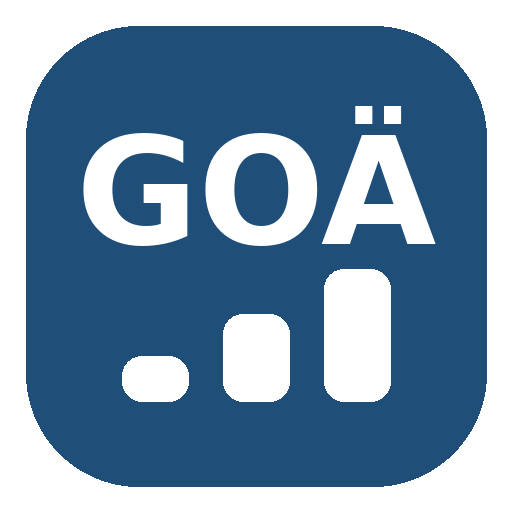
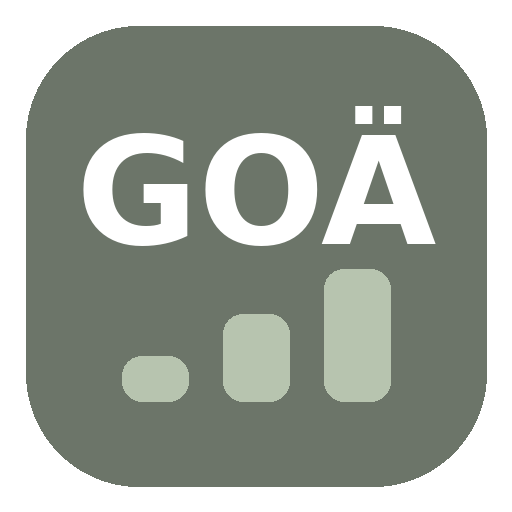
App in den Farben der Praxis
Symbol und Oberfläche übernehmen das Farbschema aus dem Praxislogo. Die drei
Werte sind die flächenmäßig größten deckenden Farben der Datei und liegen als
werkzeuge/praxislogo.png bei:

  #6C7569  Grün der Logofläche   Kopfzeile, Summen, Hauptknöpfe, Ziffern
  #B7C4AF  Hellgrün des Strangs  Balken im Symbol, Markenton im Dunkelmodus
  #585857  Grau der Wortmarke    Nebentexte

Symbol
- Aufbau unverändert, nur neu eingefärbt: Schriftzug weiß, Balken hellgrün auf
  der Grünfläche
- der Symbolbau liegt jetzt als werkzeuge/symbole_erzeugen.py bei, statt als
  einmaliges Skript; die Herkunft der Farbwerte ist dort festgehalten
- geprüft bis 60 Punkte Kantenlänge, der Schriftzug bleibt lesbar

Oberfläche
- helles und dunkles Erscheinungsbild neu abgestimmt, ebenso Kopfzeilenfarbe
  des Browsers und die Farben im Manifest für den Startbildschirm
- alle Farbpaare erreichen mindestens 4,5:1; kleine Schrift auf Eingabeflächen
  nutzt den kräftigeren Ton #4D5649, weil das Markengrün dort nur 4,0:1 erreicht

Der Zwischenspeicher des Dienst-Workers steht jetzt auf goae-v2. Ohne diese
Erhöhung bekämen bereits installierte Geräte weiterhin das alte Symbol und die
alten Farben aus ihrem Zwischenspeicher.

Geprüft im mobilen Browser auf iPhone und Android, hell und dunkel.

Claude-Session: https://claude.ai/code/session_01CNGbDgujvfgsXmdd43Jy36

diff --git a/app/app.css b/app/app.css
@@ -1,17 +1,20 @@
 /* GOAE-Kalkulator - Gestaltung fuer Telefone (iOS und Android). */
 
 :root {
-  --grund: #f4f6f9;
+  /* Farben der Praxis, entnommen aus werkzeuge/praxislogo.png:
+     #6C7569 Grün der Logofläche, #B7C4AF Hellgrün des Strangs,
+     #585857 Grau der Wortmarke. Die übrigen Werte sind daraus abgeleitet. */
+  --grund: #f1f3ef;
   --flaeche: #ffffff;
-  --flaeche-2: #eef2f7;
-  --linie: #d5dde6;
-  --text: #16202b;
-  --text-leise: #5b6a7a;
-  --marke: #1f4e79;
-  --marke-hell: #2f6da8;
-  --warnung: #b45309;
-  --fehler: #b91c1c;
-  --gut: #15803d;
+  --flaeche-2: #e8ece4;
+  --linie: #ccd3c6;
+  --text: #23261f;
+  --text-leise: #585857;
+  --marke: #6c7569;
+  --marke-stark: #4d5649;
+  --warnung: #9a5800;
+  --fehler: #a3201a;
+  --gut: #4a6b45;
   --radius: 14px;
   --tippziel: 44px;
   --unten: calc(env(safe-area-inset-bottom, 0px));
@@ -19,17 +22,17 @@
 
 @media (prefers-color-scheme: dark) {
   :root {
-    --grund: #0f1720;
-    --flaeche: #172230;
-    --flaeche-2: #1e2c3c;
-    --linie: #2c3d51;
-    --text: #e8eef5;
-    --text-leise: #9db0c4;
-    --marke: #7db3e8;
-    --marke-hell: #9cc8f5;
-    --warnung: #f0a868;
-    --fehler: #f4837c;
-    --gut: #7ddba0;
+    --grund: #171a15;
+    --flaeche: #20241e;
+    --flaeche-2: #2a2f27;
+    --linie: #3c4337;
+    --text: #e9ece6;
+    --text-leise: #a9b3a4;
+    --marke: #b7c4af;
+    --marke-stark: #cfd9c8;
+    --warnung: #e0a86a;
+    --fehler: #eb8a83;
+    --gut: #8fca86;
   }
 }
 
@@ -62,7 +65,7 @@ body {
   background: var(--marke);
   color: #fff;
 }
-@media (prefers-color-scheme: dark) { .kopf { background: #0f1b26; } }
+@media (prefers-color-scheme: dark) { .kopf { background: #2b3128; } }
 
 .kopf h1 { margin: 0; font-size: 1.05rem; font-weight: 650; letter-spacing: .2px; }
 .kopf-titel { flex: 1; min-width: 0; }
@@ -129,7 +132,7 @@ main { padding: 12px 12px 0; max-width: 760px; margin: 0 auto; }
   padding-right: 34px;
 }
 .feld input:focus, .feld select:focus, .suchleiste input:focus {
-  outline: 2px solid var(--marke-hell);
+  outline: 2px solid var(--marke-stark);
   outline-offset: 1px;
 }
 .feld-paar { display: grid; grid-template-columns: 1fr 1fr; gap: 10px; }
@@ -144,14 +147,16 @@ main { padding: 12px 12px 0; max-width: 760px; margin: 0 auto; }
   padding: 10px 16px;
   font: inherit;
   font-weight: 600;
-  color: var(--marke);
+  /* Der kräftigere Ton, weil kleine Schrift auf der Eingabefläche sonst
+     unter dem Kontrastmindestwert bliebe. */
+  color: var(--marke-stark);
   background: var(--flaeche-2);
   border: 1px solid var(--linie);
   border-radius: 10px;
   cursor: pointer;
 }
 .knopf.haupt { background: var(--marke); border-color: var(--marke); color: #fff; }
-@media (prefers-color-scheme: dark) { .knopf.haupt { color: #0f1720; } }
+@media (prefers-color-scheme: dark) { .knopf.haupt { color: #171a15; } }
 .knopf.gross { width: 100%; margin-bottom: 12px; }
 .knopf:active { transform: scale(.985); }
 .knopfreihe { display: flex; flex-wrap: wrap; gap: 8px; }
@@ -225,7 +230,7 @@ main { padding: 12px 12px 0; max-width: 760px; margin: 0 auto; }
 .stufe button {
   width: 38px; height: 40px;
   border: none; background: transparent;
-  color: var(--marke); font-size: 1.25rem; line-height: 1;
+  color: var(--marke-stark); font-size: 1.25rem; line-height: 1;
 }
 .stufe input {
   width: 62px; height: 40px;
@@ -241,7 +246,7 @@ main { padding: 12px 12px 0; max-width: 760px; margin: 0 auto; }
   font-size: .95rem;
 }
 .fix-knopf[aria-pressed="true"] { background: var(--marke); border-color: var(--marke); color: #fff; }
-@media (prefers-color-scheme: dark) { .fix-knopf[aria-pressed="true"] { color: #0f1720; } }
+@media (prefers-color-scheme: dark) { .fix-knopf[aria-pressed="true"] { color: #171a15; } }
 .position-betrag {
   margin-left: auto;
   font-size: 1.12rem;
@@ -402,7 +407,7 @@ main { padding: 12px 12px 0; max-width: 760px; margin: 0 auto; }
   max-width: 92vw;
   padding: 10px 16px;
   border-radius: 22px;
-  background: #16202bee;
+  background: #23261fee;
   color: #fff;
   font-size: .84rem;
   text-align: center;

diff --git a/app/index.html b/app/index.html
@@ -3,8 +3,8 @@
 <head>
 <meta charset="utf-8">
 <meta name="viewport" content="width=device-width, initial-scale=1, viewport-fit=cover">
-<meta name="theme-color" content="#1f4e79" media="(prefers-color-scheme: light)">
-<meta name="theme-color" content="#0f1b26" media="(prefers-color-scheme: dark)">
+<meta name="theme-color" content="#6c7569" media="(prefers-color-scheme: light)">
+<meta name="theme-color" content="#2b3128" media="(prefers-color-scheme: dark)">
 <meta name="description" content="Kalkulation privatärztlicher Leistungspakete nach der GOÄ">
 <meta name="apple-mobile-web-app-capable" content="yes">
 <meta name="apple-mobile-web-app-status-bar-style" content="black-translucent">

diff --git a/app/sw.js b/app/sw.js
@@ -5,7 +5,7 @@
  * Beim Aendern der Version wird der alte Bestand verworfen.
  */
 
-const VERSION = 'goae-v1';
+const VERSION = 'goae-v2';
 const BESTAND = [
   './',
   './index.html',

diff --git a/werkzeuge/symbole_erzeugen.py b/werkzeuge/symbole_erzeugen.py
@@ -1,0 +1,91 @@
+#!/usr/bin/env python3
+"""Erzeugt die App-Symbole in den Farben der Praxis.
+
+Die Farbwerte stammen aus dem Praxislogo (werkzeuge/praxislogo.png) und sind
+dort die drei flaechenmaessig groessten deckenden Farben:
+
+    #6C7569   Gruen der Logoflaeche      -> Untergrund des Symbols
+    #FFFFFF   Weiss der Wortmarke        -> Schriftzug "GOAE"
+    #B7C4AF   Hellgruen des Strangs      -> die drei Balken
+
+Aufbau des Symbols (unveraendert gegenueber der ersten Fassung, nur neu
+eingefaerbt): Schriftzug in der oberen Haelfte, darunter drei aufsteigende
+Balken als Sinnbild fuer den einfachen, den 2,3- und den 3,5-fachen Satz.
+
+    python3 werkzeuge/symbole_erzeugen.py
+"""
+
+from __future__ import annotations
+
+import sys
+from pathlib import Path
+
+from PIL import Image, ImageDraw, ImageFont
+
+# Aus dem Praxislogo entnommen - siehe Kopf dieser Datei.
+GRUEN = (108, 117, 105)
+WEISS = (255, 255, 255)
+HELLGRUEN = (183, 196, 175)
+
+SCHRIFTEN = (
+    "/usr/share/fonts/truetype/dejavu/DejaVuSans-Bold.ttf",
+    "/usr/share/fonts/truetype/liberation/LiberationSans-Bold.ttf",
+)
+
+
+def schriftart(groesse: int):
+    for pfad in SCHRIFTEN:
+        if Path(pfad).exists():
+            return ImageFont.truetype(pfad, groesse)
+    return ImageFont.load_default()
+
+
+def zeichne(groesse: int, maskierbar: bool = False) -> Image.Image:
+    bild = Image.new("RGBA", (groesse, groesse), (0, 0, 0, 0))
+    stift = ImageDraw.Draw(bild)
+    if maskierbar:
+        # Maskierbare Symbole werden von Android beschnitten: Flaeche voll
+        # fuellen, Inhalt in der sicheren Zone halten.
+        stift.rectangle([0, 0, groesse, groesse], fill=GRUEN)
+        inhalt = groesse * 0.70
+    else:
+        rand = groesse * 0.05
+        stift.rounded_rectangle([rand, rand, groesse - rand, groesse - rand],
+                                radius=groesse * 0.22, fill=GRUEN)
+        inhalt = groesse * 0.86
+    mitte = groesse / 2
+
+    text = "GOÄ"
+    grad = schriftart(int(inhalt * 0.34))
+    kasten = stift.textbbox((0, 0), text, font=grad)
+    stift.text((mitte - (kasten[2] - kasten[0]) / 2 - kasten[0],
+                mitte - inhalt * 0.34 - kasten[1]), text, font=grad, fill=WEISS)
+
+    balken_unten = mitte + inhalt * 0.33
+    hoechste = inhalt * 0.30
+    breite = inhalt * 0.15
+    luecke = inhalt * 0.08
+    start = mitte - (3 * breite + 2 * luecke) / 2
+    for i, anteil in enumerate((0.34, 0.66, 1.0)):
+        hoehe = hoechste * anteil
+        x = start + i * (breite + luecke)
+        stift.rounded_rectangle([x, balken_unten - hoehe, x + breite, balken_unten],
+                                radius=breite * 0.3, fill=HELLGRUEN)
+    return bild
+
+
+def main(argv: list[str]) -> int:
+    ziel = Path(argv[1]) if len(argv) > 1 else \
+        Path(__file__).resolve().parent.parent / "app" / "symbole"
+    ziel.mkdir(parents=True, exist_ok=True)
+    for groesse in (180, 192, 512):
+        zeichne(groesse).save(ziel / f"symbol-{groesse}.png")
+    zeichne(512, maskierbar=True).save(ziel / "symbol-maskierbar-512.png")
+    print(f"Symbole geschrieben nach {ziel}:")
+    for datei in sorted(ziel.glob("symbol-*.png")):
+        print(f"  {datei.name}  ({datei.stat().st_size / 1024:.0f} kB)")
+    return 0
+
+
+if __name__ == "__main__":
+    raise SystemExit(main(sys.argv))

diff --git a/app/README.md b/app/README.md
@@ -77,6 +77,33 @@ nach § 12 GOÄ nötig), über dem Höchstsatz der Steigerungsklasse rot.
 Teilen-Menü – von dort in Mail, Dateien, Drive oder direkt in eine
 Tabellen-App. Fehlt die Teilen-Funktion, wird die Datei heruntergeladen.
 
+## Erscheinungsbild
+
+Symbol und Oberfläche verwenden die Farben der Praxis, ausgelesen aus
+`werkzeuge/praxislogo.png`:
+
+| Farbe | Verwendung |
+|---|---|
+| `#6C7569` Grün der Logofläche | Kopfzeile, Summen, Hauptknöpfe, Ziffernnummern |
+| `#B7C4AF` Hellgrün des Strangs | Balken im Symbol, Markenton im dunklen Erscheinungsbild |
+| `#585857` Grau der Wortmarke | Nebentexte |
+
+Die App folgt der Einstellung des Geräts und erscheint hell oder dunkel. Alle
+Farbpaare erreichen die Kontrastwerte für Fließtext (mindestens 4,5:1); kleine
+Schrift auf Eingabeflächen nutzt deshalb den kräftigeren Ton `#4D5649`.
+
+Das Symbol wird erzeugt mit:
+
+```bash
+python3 werkzeuge/symbole_erzeugen.py
+```
+
+Ändern sich die Praxisfarben, genügt es, `werkzeuge/praxislogo.png` zu
+ersetzen, die Farbwerte im Kopf des Skripts sowie die Variablen in `app.css`
+anzupassen und das Skript erneut laufen zu lassen. Nach jeder Symboländerung
+ist die Version in `sw.js` zu erhöhen – sonst zeigen bereits installierte
+Geräte weiter das alte Symbol aus ihrem Zwischenspeicher.
+
 ## Wo die Daten liegen
 
 Angebote und Patientenangaben werden **ausschließlich auf dem Gerät**

diff --git a/README.md b/README.md
@@ -216,6 +216,8 @@ werkzeuge/
   katalog_erzeugen.py         Katalog aus dem amtlichen GOÄ-Text erzeugen
   katalog_fuer_app.py         Katalog für die Smartphone-App aufbereiten
   pruefvektoren.py            Prüfvektoren für den Abgleich mit der App
+  symbole_erzeugen.py         App-Symbole in den Praxisfarben
+  praxislogo.png              Logo der Praxis, Quelle der Farbwerte
 app/                          Smartphone-App (siehe app/README.md)
 .github/workflows/pages.yml   Tests und Veröffentlichung der App
 tests/test_kalkulator.py      Testfälle
